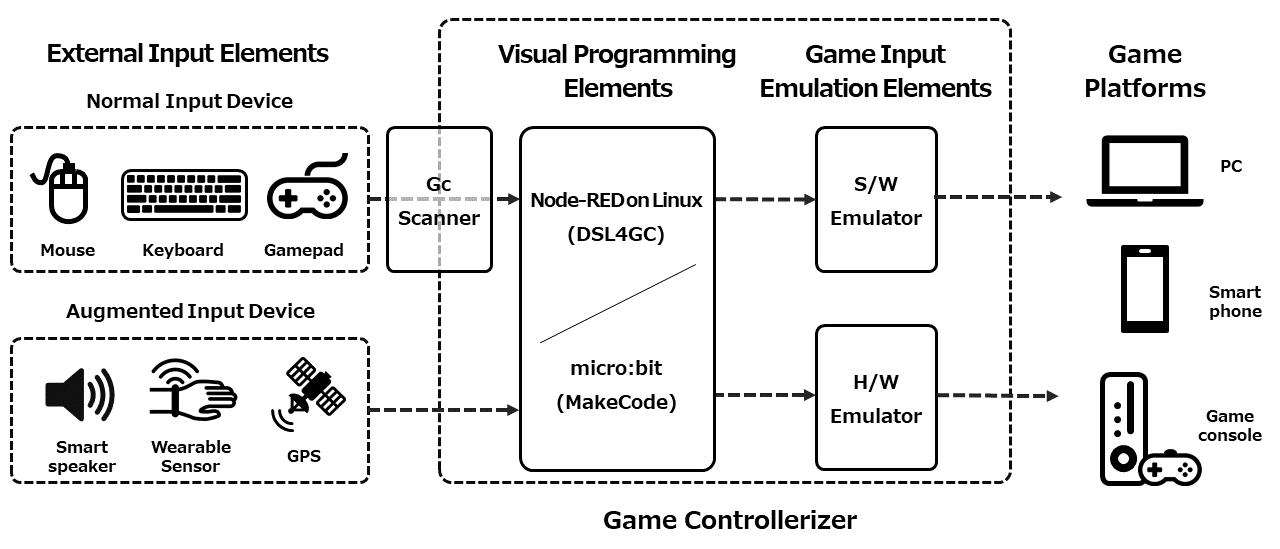
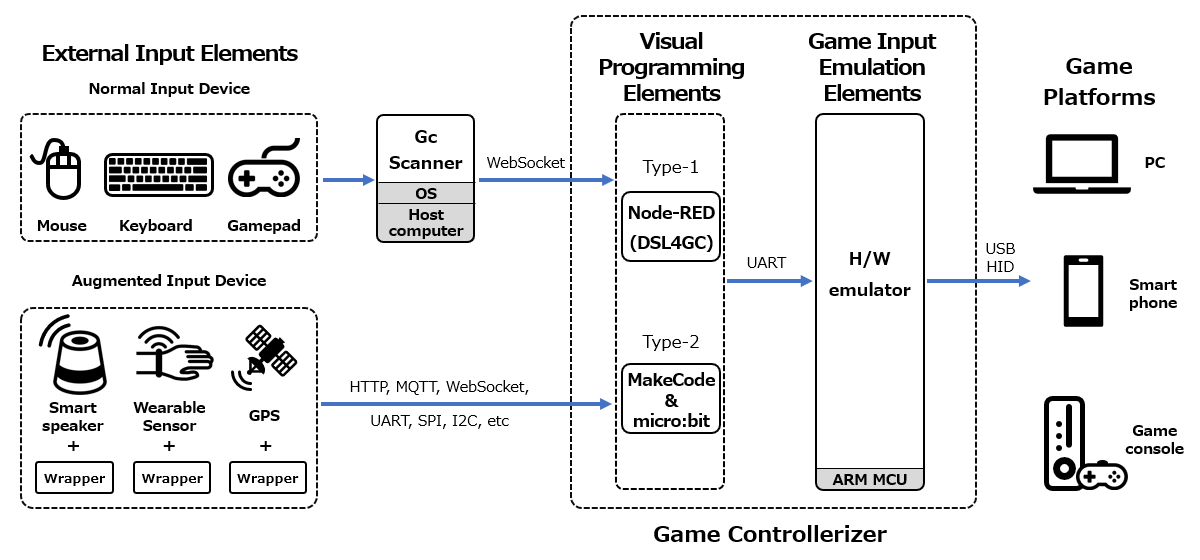
update image

diff --git a/README.md b/README.md
@@ -20,7 +20,7 @@ Game Controllerizer は，様々な既存ディジタルゲームプラットフ
 
 また，ディジタルゲームへの入力信号の時系列情報を一次元の文字列として記述する可読性の高い簡易言語である [DSL4GC](https://github.com/GameControllerizer/DSL4GC)（Domain Specific Language for Game Control）を用意しており，Node-RED環境で利用可能です．
 
-<img src="./images/overview.png" width="640px">
+<img src="./images/overview.png" width="720px">
 
 ## 各部説明
 ### Node-RED
@@ -29,7 +29,7 @@ Game Controllerizer は，様々な既存ディジタルゲームプラットフ
 ### Makecode
 エミュレータを micro:bit から制御する場合に利用可能です．ゲーム制御情報を Scratch スタイルのプログラミングブロック，もしくは Javascript で記述・編集することができます．マイコン / 電子工作といった分野を得意にする方にお勧めします．詳しくは[こちら](https://github.com/GameControllerizer/pxt-gamecontrollerizer).
 
-### S/W Emulator（更新停止中）
+### S/W Emulator（Deprecated）
 各ゲームプラットフォームに対する入力を電子的に模擬するS/Wです．詳しくは[こちら](https://github.com/GameControllerizer/GcSwEmulator)．  
 現時点での対応プラットフォームは以下です．
 
